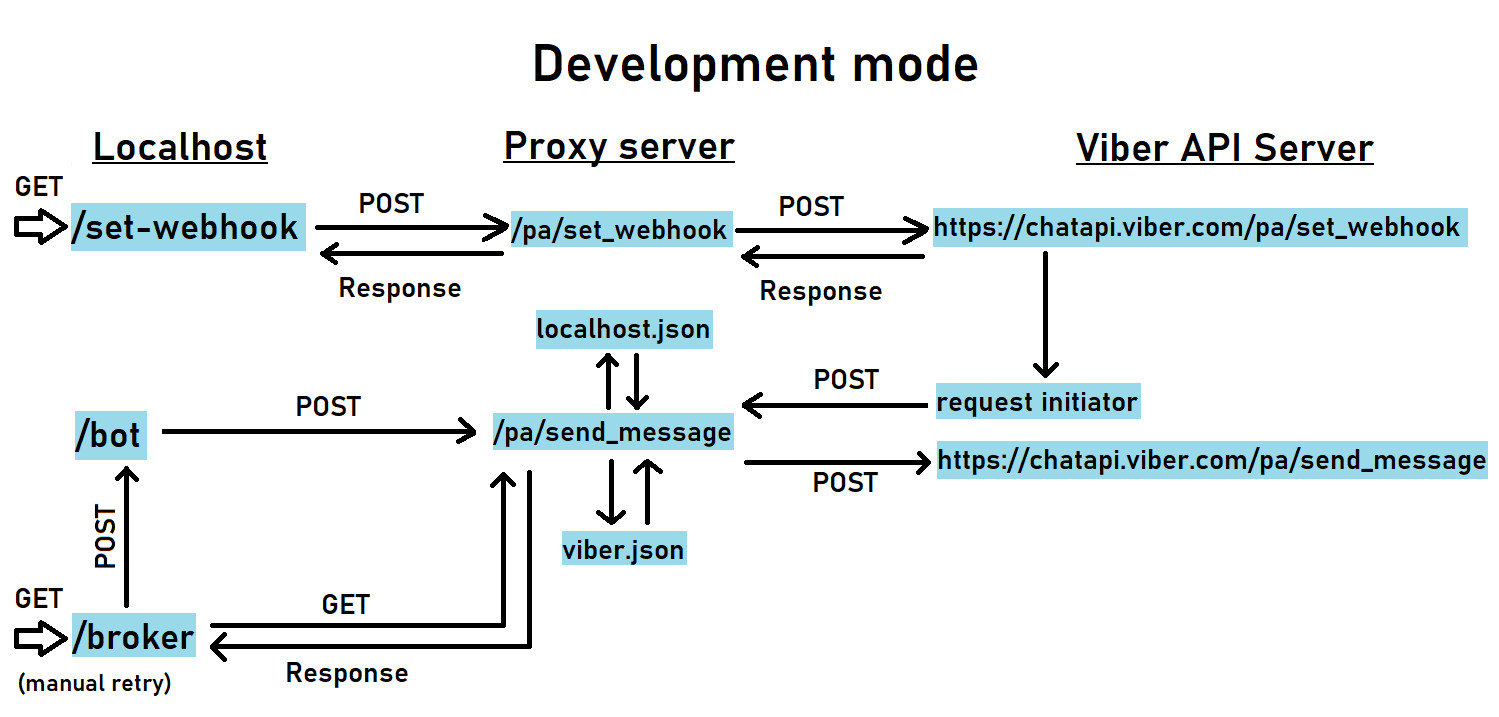
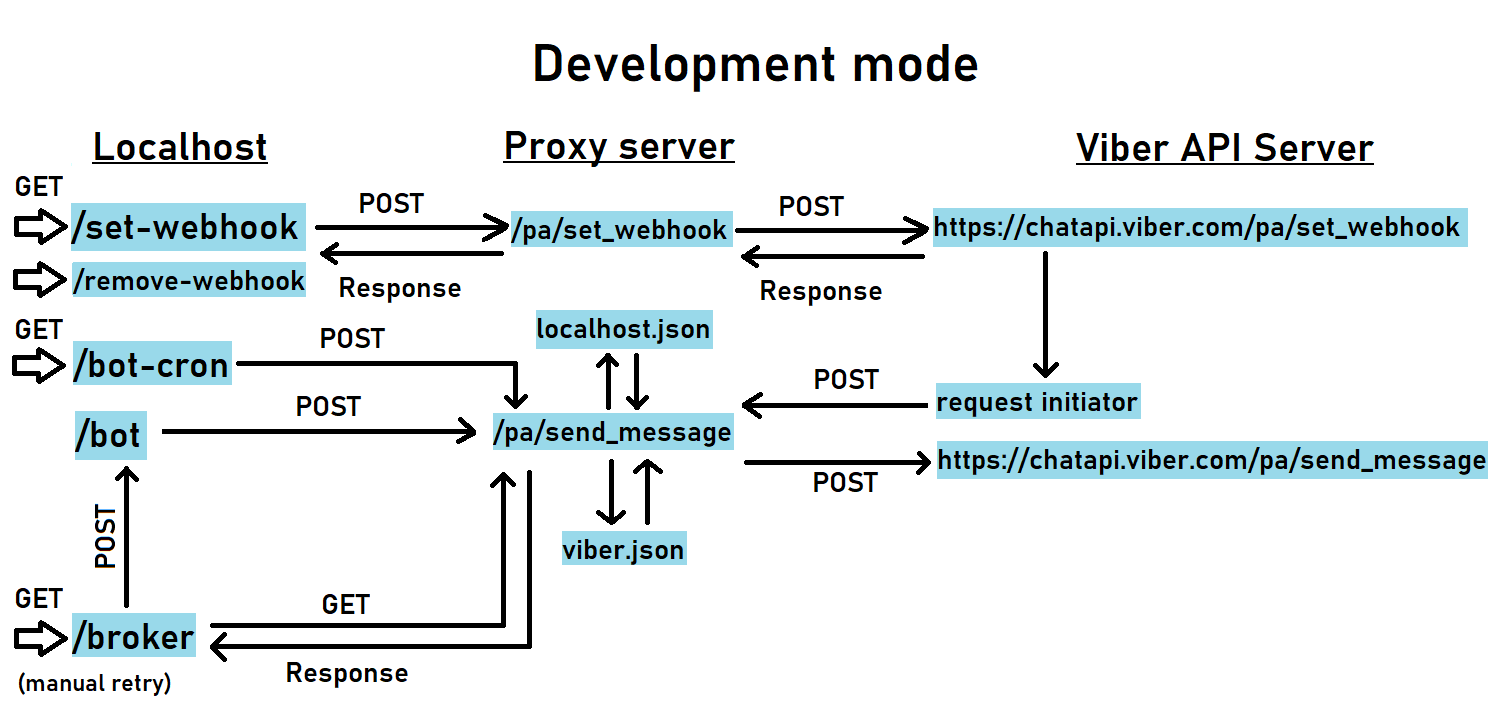
Readme update

Changed region(s): [[0.0, 0.3682, 0.3376, 0.5523], [0.3376, 0.5216, 0.3682, 0.583]]

diff --git a/app/Services/ViberApi/CronJobService.php b/app/Services/ViberApi/CronJobService.php
@@ -21,8 +21,7 @@ class CronJobService extends BaseService
 
         $users = ViberBotUser::all();
         foreach ($users as $user) {
-            //echo $user->name;
-            //sleep(10);
+
             $this->serveUser($user);
 
             $elapsed = microtime(true) - $start;

diff --git a/readme.md b/readme.md
@@ -1,10 +1,20 @@
 ## Weather by Fractal512 (Viber chatbot)
 
-Viber chatbot showing weather forecast.
+Viber chatbot showing weather information for selected city periodically with selected time interval.
 
 ### Development and Production modes
 
 #### Development mode
 For development purposes, a custom proxy server was developed (located in the `/pa` project subdirectory). Requests flow in development mode has shown below.
 
-![DB-Cleanup plugin interface](/blob/assets/viber-bot-development-mode.png?raw=true)
+![Development mode](/blob/assets/viber-bot-development-mode.png?raw=true)
+
+#### Development mode
+Requests flow in production mode:
+
+![Production mode](/blob/assets/viber-bot-production-mode.png?raw=true)
+
+### Life cycle process
+User registration, servicing and unsubscribing process:
+
+![Life cycle process](/blob/assets/viber-bot-lifecycle.png?raw=true)
